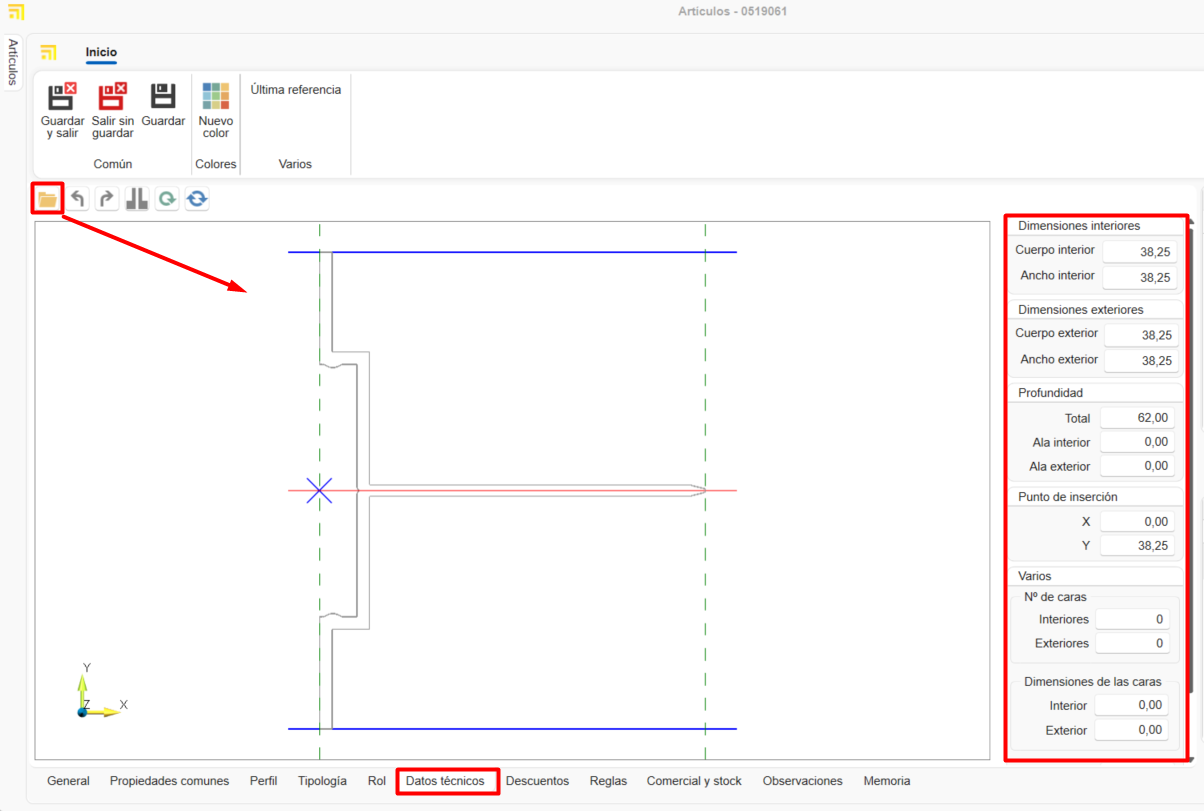
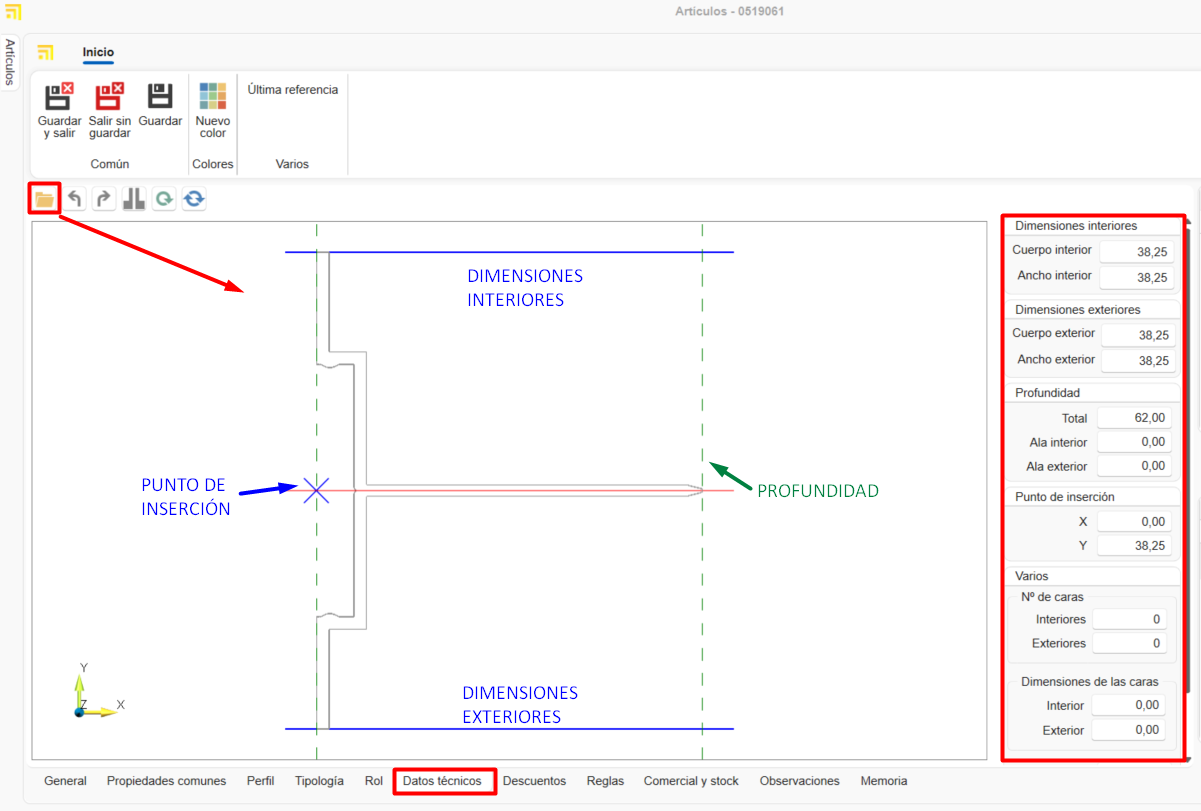
update info - enMATERIALS/ enCLAD

diff --git a/docs/es/Utilidades/2.UT_Crear_Materiales_enMATERIAL.md b/docs/es/Utilidades/2.UT_Crear_Materiales_enMATERIAL.md
@@ -222,7 +222,7 @@ Desde de la ventana de inicio en la barra superior ir a **Sistema**.
 
 #### 9.1.2. Propiedades
 
-- Definir las **Propiedades** del sistema:
+Desde la pestaña **Propiedades** en la parte inferior se define algunos campos del sistema:
 
    - Nombre
    - Descripción
@@ -234,13 +234,13 @@ Desde de la ventana de inicio en la barra superior ir a **Sistema**.
 
       ![Sistema enCLAD](Imagenes/UT_Crear_Material/enclad_sistema3.png)
 
-- En **Artículos relacionados** de propiendas muestra el listado de materiales relacionado con el sistema.
+Desde la pestaña **Artículos relacionados** en la parte inferior se muestra el listado de materiales relacionado con el sistema.
 
    ![Sistema enCLAD](Imagenes/UT_Crear_Material/enclad_sistema1.png)
 
 #### 9.1.3. Fachada ventilada
 
-- Define el tipo de sistema:
+Desde la pestaña **Tipo de sistema** en la parte inferior se mostrará una ventana donde puede elegir el tipo de sistema:
 
    - Sistema se cuelgue
    - Sistema macho-hembra
@@ -249,23 +249,88 @@ Desde de la ventana de inicio en la barra superior ir a **Sistema**.
 
 - En la ventana lateral izquierda se define los parámetros del tipo de sistema.
 
-- En la ventana inferior se define otros parámetros comunes entre el tipo de sistemas, como:
+- En la ventana inferior se define otros parámetros comunes entre los tipos de sistemas, como:
 
    - Distancia extremo habitual.
-   - Huella minimo - Vertical
+   - Huella mínimo - Vertical
    - Huella máximo - Vertical
    - Huella - Vertical
-   - Huella minimo - Horizontal
+   - Huella mínimo - Horizontal
    - Huella máximo - Horizontal
    - Huella - Horizontal
-   - Recercado minimo
+   - Recercado mínimo
    - Recercado máximo
    - Recercado habitual
    - Permitir recercado (casilla)
 
+- En la ventana central se muestra el diseño de la fachada ventilada del tipo del sistema elegido. Si el tipo de sistema es **Sistema de cuelgue**, al lado se muestra una ventana para la definición del diseño del mecanizado.
 
-> Dependiendo del tipo de sistema se definirá unos parámetros u otros  
+   - Pestaña **Mecanizado cuelgue** se puede importar el dibujo en formato dwg/dxf.
+   - Pestaña **Otros mecanizados** se puede definir con algunos parámetros el dibujo del mecanizado.
 
+- En la ventana lateral derecha **Materiales del sistema** se añade los artículos para el sistema en cada campo desplegable:
+
+   - Coliso
+   - Remache conformado
+   - Soporte cuelgue
+   - Pletina conformado
+   - Refuerzo bota
+
+   ![Sistema enCLAD](Imagenes/UT_Crear_Material/enclad_sistema4.png)
+
+> ℹ **Nota:** Dependiendo del tipo de sistema se definirá unos parámetros u otros.
+
+Desde la pestaña **Opciones** en la parte inferior se mostrará una ventana de las opciones relacionada con el tipo de sistema.
+
+   ![Sistema enCLAD](Imagenes/UT_Crear_Material/enclad_sistema5.png)
+
+Desde la pestaña **Remates** en la parte inferior se mostrará una ventana donde definir las **Opciones de remate** sus **Valores** y los **Pliegues** para añadir la longitud y rotación.
+
+   ![Sistema enCLAD](Imagenes/UT_Crear_Material/enclad_sistema6.png)
+
+Desde la pestaña **Rigidizadores** (solo para el sistema de tipo cuelgue) se muestra el listado de materiales de tipo rigidizador relacionado con el sistema.
+
+   ![Sistema enCLAD](Imagenes/UT_Crear_Material/enclad_sistema7.png)
+
+#### 9.1.4. Clonar sistemas
+
+Desde **Sistemas** en la cinta superior hay la opción de **Clonar**. Esa funcionalidad copia todas las propiedades del sistema seleccionado en la lista.
+
+   ![Sistema enCLAD](Imagenes/UT_Crear_Material/enclad_sistema9.png)
+
+   ![Sistema enCLAD](Imagenes/UT_Crear_Material/enclad_sistema10.png)
+
+---
+
+### 9.2. Artículos 
+
+Definir artículos desde:
+
+   ![Artículos](Imagenes/UT_Crear_Material/articulos.png)
+
+   ![Nuevo Artículo](Imagenes/UT_Crear_Material/nuevo_articulo.png)
+
+- Desde la pestaña inferior **General** rellenar los campos para la propiedad del material dependiendo del tipo de cálculo seleccionado, **barra**, **pieza**, **junta** o **superficie**.
+
+   ![Articulo enCLAD](Imagenes/UT_Crear_Material/enclad_articulo1.png)
+
+> **Nota:** Es importante indicar el sistema de la fachada ventilada que estará vincula ese material.
+
+- Desde la pestaña inferior **Datos técnicos** importar dwg/dxf del material y definir las dimensiones del dibujo, como:
+
+   - Dimensiones interiores
+   - Dimensiones exteriores
+   - Profundidad
+   - Punto de inserción
+   - Varios
+
+   ![Articulo enCLAD](Imagenes/UT_Crear_Material/enclad_articulo2.png)
+
+> **Nota:** Datos técnicos solo está disponible para los tipos de cálculo barra y junta.
+
+- Desde la pestaña **Reglas** arrastra una regla desde la ventana lateral derecha inferior de la pestaña **Reglas** previamente definida.
+
+   ![Articulo enCLAD](Imagenes/UT_Crear_Material/enclad_articulo3.png)
 
 ## 10. Conclusión
 
